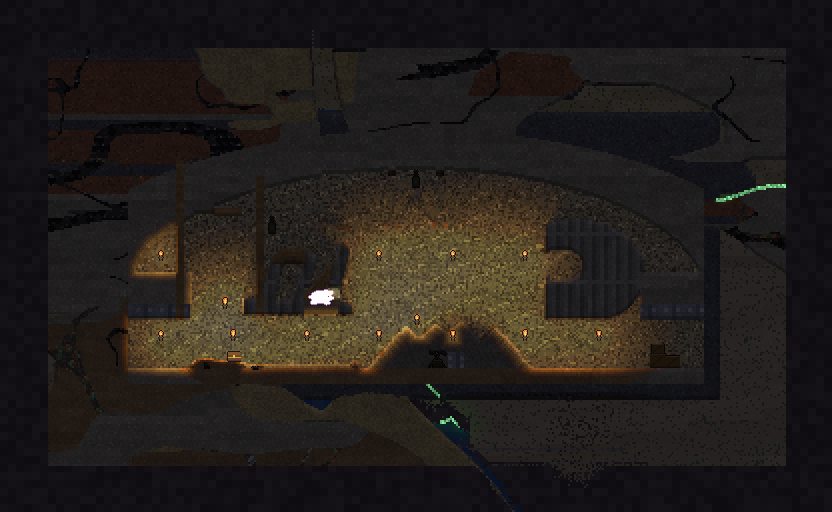
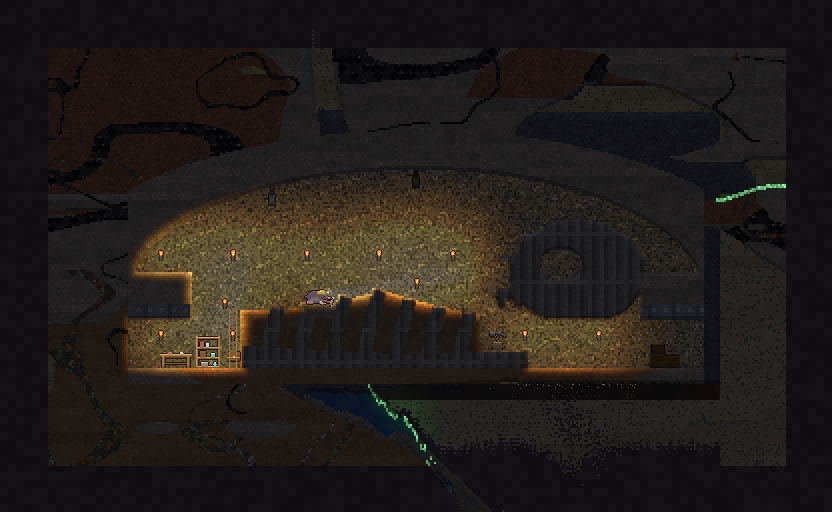
Final art polish: fossil and fissure wiki stills regenerated (current layouts) with captions; tube hopper drawn as its brass funnel and tube stub (was three boxes beside the ore hopper's bin)

diff --git a/engine/game/src/main.rs b/engine/game/src/main.rs
@@ -135,7 +135,7 @@ const BG_BASE: [f32; 3] = [44., 34., 30.];
 #[inline] fn srgb(l: f32) -> f32 { l.max(0.).powf(1. / 2.2) * 255. }
 #[derive(Component)] pub struct WorldSprite;
 #[derive(Component)] struct Pooled(u8, usize);
-#[derive(Resource)] pub struct Sprites { pub wagon: Vec<Handle<Image>>, pub wload: [Handle<Image>; 2], pub coupling: Handle<Image>, pub borer: Vec<Handle<Image>>, pub leaf: Handle<Image>, pub lever: [Handle<Image>; 2], pub scale: [Handle<Image>; 4], pub rope: [Handle<Image>; 2], pub weight: Handle<Image>, pub boiler: [Handle<Image>; 2], pub stamp: [Handle<Image>; 2], pub tub: [Handle<Image>; 2], pub smelter: [Handle<Image>; 4], pub props: Vec<Handle<Image>>, pub cart: Handle<Image>, pub bin: Vec<Handle<Image>>, pub clue: Vec<Handle<Image>>, pub furn: Vec<Option<(Handle<Image>, Option<Handle<Image>>)>>, pub tools: [Handle<Image>; 3], pub dev: Vec<Handle<Image>>, pub ring: Handle<Image>, pub mole: Vec<Handle<Image>>, pub mole_out: Vec<Handle<Image>>, pub held: Vec<Handle<Image>>, pub icons: Vec<Handle<Image>>, pub chest: [Handle<Image>; 2], pub station: Vec<[Handle<Image>; 2]>, pub torch: Handle<Image>, pub torch_f: Vec<Handle<Image>>, pub glow: Handle<Image>, pub shroom: [Handle<Image>; 3], pub px: Handle<Image> }
+#[derive(Resource)] pub struct Sprites { pub thopper: Handle<Image>, pub wagon: Vec<Handle<Image>>, pub wload: [Handle<Image>; 2], pub coupling: Handle<Image>, pub borer: Vec<Handle<Image>>, pub leaf: Handle<Image>, pub lever: [Handle<Image>; 2], pub scale: [Handle<Image>; 4], pub rope: [Handle<Image>; 2], pub weight: Handle<Image>, pub boiler: [Handle<Image>; 2], pub stamp: [Handle<Image>; 2], pub tub: [Handle<Image>; 2], pub smelter: [Handle<Image>; 4], pub props: Vec<Handle<Image>>, pub cart: Handle<Image>, pub bin: Vec<Handle<Image>>, pub clue: Vec<Handle<Image>>, pub furn: Vec<Option<(Handle<Image>, Option<Handle<Image>>)>>, pub tools: [Handle<Image>; 3], pub dev: Vec<Handle<Image>>, pub ring: Handle<Image>, pub mole: Vec<Handle<Image>>, pub mole_out: Vec<Handle<Image>>, pub held: Vec<Handle<Image>>, pub icons: Vec<Handle<Image>>, pub chest: [Handle<Image>; 2], pub station: Vec<[Handle<Image>; 2]>, pub torch: Handle<Image>, pub torch_f: Vec<Handle<Image>>, pub glow: Handle<Image>, pub shroom: [Handle<Image>; 3], pub px: Handle<Image> }
 
 /// `?seed=N` (web) / `--seed=N` (native) was given: the game opens straight into that holt.
 fn seed_pinned() -> bool {
@@ -308,7 +308,7 @@ fn dev_dump(n: Local<u32>, g: Res<Game>, sp: Res<Sprites>, images: Res<Assets<Im
         list.push(("cart".into(), sp.cart.clone())); list.push(("rope".into(), sp.rope[0].clone())); list.push(("hook".into(), sp.rope[1].clone())); list.push(("weight".into(), sp.weight.clone())); list.push(("boiler0".into(), sp.boiler[0].clone())); list.push(("boiler1".into(), sp.boiler[1].clone()));
         for (k, h) in sp.stamp.iter().chain(sp.tub.iter()).chain(sp.smelter.iter()).enumerate() { list.push((format!("works{k}"), h.clone())); }
         list.push(("gate-leaf".into(), sp.leaf.clone())); for (k, h) in sp.borer.iter().enumerate() { list.push((format!("borer{k}"), h.clone())); }
-        for (k, h) in sp.wagon.iter().chain(sp.wload.iter()).enumerate() { list.push((format!("wagon{k}"), h.clone())); } list.push(("coupling".into(), sp.coupling.clone())); for (k, h) in sp.lever.iter().chain(sp.scale.iter()).enumerate() { list.push((format!("logic{k}"), h.clone())); }
+        for (k, h) in sp.wagon.iter().chain(sp.wload.iter()).enumerate() { list.push((format!("wagon{k}"), h.clone())); } list.push(("coupling".into(), sp.coupling.clone())); list.push(("tube-hopper".into(), sp.thopper.clone())); for (k, h) in sp.lever.iter().chain(sp.scale.iter()).enumerate() { list.push((format!("logic{k}"), h.clone())); }
         for (k, h) in sp.bin.iter().enumerate() { list.push((format!("orebin{k}"), h.clone())); }
         for (k, h) in sp.props.iter().enumerate() { list.push((format!("prop-{:?}", props::PROPS[k]), h.clone())); }
         for (k, h) in sp.icons.iter().enumerate() { list.push((format!("icon-{:?}", ITEMS[k]), h.clone())); }
@@ -540,7 +540,7 @@ fn stage_scene(w: &mut World) {
                 molehill_sim::light::reveal_box(&mut w.g, mx, y0 - 10 * S, x1 + 10 * S, my + 10 * S);
                 for k in 0..4 { w.torches.push((x0 + (6 + k * 16) * S, y0 + 4 * S)); }
             }
-            "production" => { // a works east of the burrow: a chute sloping down onto a shaker screen, riffle bars, an ore hopper
+            "production" => { // a works east of the burrow: a chute sloping down onto a shaker screen, riffle bars, an ore hopper and a tube hopper beside it
                 // heaped with copper ore over a rail, and a bumper at the end of the track
                 use molehill_sim::mat::CPM;
                 let (x0, x1, y0) = (mx + 4 * S, mx + 64 * S, my - 22 * S);
@@ -552,6 +552,9 @@ fn stage_scene(w: &mut World) {
                 for x in sx + 2 * CPM - 2..sx + 2 * CPM { for y in sy + 2..my - 1 { set(w, x, y, Mat::WoodBeam); } }
                 for x in x1 - CPM / 2..x1 { for y in my - CPM..my - 1 { set(w, x, y, Mat::Bumper); } }
                 for x in x0 + 26 * S..x0 + 26 * S + 2 * CPM { for y in my - 3..my - 1 { set(w, x, y, Mat::Riffle); } } // a run of riffle bars on the track bed
+                // a tube hopper on a stub of pressure tube by the ore hopper, so the two read apart in a still
+                { let (hx, hy) = (x0 + 50 * S, my - 1 - CPM - 2); for x in hx + CPM / 2 - 1..hx + CPM / 2 + 1 { for y in hy + CPM..my - 1 { set(w, x, y, Mat::Tube); } }
+                  let tube = w.g.idx(hx + CPM / 2, hy + CPM); w.tr.hoppers.push(molehill_sim::tubes::Hopper { x: hx, y: hy, tube, dest: None }); }
                 let bx = x0 + 40 * S; let floor = my - 1; let by = floor - molehill_sim::production::BIN_LEGS;
                 w.tr.bins.push(molehill_sim::production::OreHopper { x: bx, y: by, floor, contents: vec![(Item::CopperOre, 40)], held: false, rod_held: false, open: false, feed: 0, grit: vec![] });
                 molehill_sim::light::reveal_box(&mut w.g, mx, y0 - 10 * S, x1 + 10 * S, my + 10 * S);
@@ -758,7 +761,7 @@ fn setup(mut commands: Commands, mut images: ResMut<Assets<Image>>, mut fonts: R
         mole_out: art::mole_sheet(false).into_iter().map(|i| images.add(i)).collect(),
         held: [art::Held::Pick, art::Held::Drill, art::Held::Bore, art::Held::Charge, art::Held::Block(Item::WoodPillar.color()), art::Held::Block(Item::Brick.color()), art::Held::Block(Item::IronBeam.color()), art::Held::RopeGun(true), art::Held::RopeGun(false)]
             .into_iter().map(|h| images.add(art::held_sprite(h))).collect(),
-        clue: (0..9).map(|k| images.add(decorart::clue(k))).collect(), props: props::PROPS.iter().map(|&p| images.add(props::image(p))).collect(), cart: images.add(art::cart()), borer: (0..6).map(|k| images.add(art::borer(k))).collect(), wagon: (0..5).map(|k| images.add(art::wagon(k))).collect(), wload: [images.add(art::wagon_load(false)), images.add(art::wagon_load(true))], coupling: images.add(art::coupling()), leaf: images.add(art::gate_leaf()), lever: [images.add(art::gate_lever(false)), images.add(art::gate_lever(true))], scale: [0, 1, 2, 3].map(|k| images.add(art::scale_part(k))), rope: [images.add(art::rope_seg()), images.add(art::rope_hook())], weight: images.add(art::weight()), boiler: [images.add(art::boiler(false)), images.add(art::boiler(true))], stamp: [images.add(art::stamp_mill(0)), images.add(art::stamp_mill(1))], tub: [images.add(art::washer_tub(false)), images.add(art::washer_tub(true))], smelter: [0, 1, 2, 3].map(|k| images.add(art::smelter(k))), bin: (0..5).map(|k| images.add(art::ore_bin(k))).collect(),
+        clue: (0..9).map(|k| images.add(decorart::clue(k))).collect(), props: props::PROPS.iter().map(|&p| images.add(props::image(p))).collect(), cart: images.add(art::cart()), borer: (0..6).map(|k| images.add(art::borer(k))).collect(), thopper: images.add(art::tube_hopper()), wagon: (0..5).map(|k| images.add(art::wagon(k))).collect(), wload: [images.add(art::wagon_load(false)), images.add(art::wagon_load(true))], coupling: images.add(art::coupling()), leaf: images.add(art::gate_leaf()), lever: [images.add(art::gate_lever(false)), images.add(art::gate_lever(true))], scale: [0, 1, 2, 3].map(|k| images.add(art::scale_part(k))), rope: [images.add(art::rope_seg()), images.add(art::rope_hook())], weight: images.add(art::weight()), boiler: [images.add(art::boiler(false)), images.add(art::boiler(true))], stamp: [images.add(art::stamp_mill(0)), images.add(art::stamp_mill(1))], tub: [images.add(art::washer_tub(false)), images.add(art::washer_tub(true))], smelter: [0, 1, 2, 3].map(|k| images.add(art::smelter(k))), bin: (0..5).map(|k| images.add(art::ore_bin(k))).collect(),
         furn: ITEMS.iter().map(|&it| it.furn().map(|_| { let (b, c) = decorart::furniture(it); (images.add(decorart::finish(b)), c.map(|c| images.add(decorart::cloth(c)))) })).collect(),
         icons: ITEMS.iter().map(|&it| images.add(itemart::icon(it))).collect(),
         chest: [images.add(art::chest(false)), images.add(art::chest(true))],
@@ -1408,11 +1411,9 @@ fn sync_sprites(mut commands: Commands, g: Res<Game>, sp: Res<Sprites>, time: Re
     for (k, h) in w.tr.hoppers.iter().enumerate() {
         if w.g.flags[h.y.min(H - 1) * W + h.x.min(W - 1)] & F_SEEN == 0 { continue; }
         let (cx, cy) = h.centre(); let lt = lightf(cx as usize, cy as usize).to_srgba(); let hot = if w.logic.net_lit(w.logic.block_of(cx as usize, cy as usize)) { 1.25 } else { 1. };
-        let lit = |r: f32, gg: f32, b: f32| Color::srgb(r * lt.red * hot, gg * lt.green * hot, b * lt.blue * hot);
+        // a brass funnel narrowing into its tube stub (`art::tube_hopper`, as its icon), brighter while its copperline is live
         let n = molehill_sim::tubes::HOPPER as f32;
-        want.push((43, k, cell_to_world(cx, cy + n * 0.25), 3.9, sp.px.clone(), Vec2::new(n * CPX, n * 0.5 * CPX), false, lit(0.62, 0.45, 0.22)));
-        want.push((44, k, cell_to_world(cx, cy - n * 0.15), 3.9, sp.px.clone(), Vec2::new(n * 0.8 * CPX, n * 0.3 * CPX), false, lit(0.7, 0.52, 0.26)));
-        want.push((45, k, cell_to_world(cx, cy - n * 0.32), 3.95, sp.px.clone(), Vec2::new(n * 0.6 * CPX, 1.5), false, lit(0.15, 0.13, 0.12)));
+        want.push((43, k, cell_to_world(cx, cy), 3.9, sp.thopper.clone(), Vec2::splat(n * CPX), false, Color::srgb(lt.red * hot, lt.green * hot, lt.blue * hot)));
     }
     // counterweights: the rope paid off the drum as twisted fibre down to a cast-iron weight hanging on its eye
     for (k, wt) in w.tr.power.weights.iter().enumerate() {

diff --git a/engine/game/src/art.rs b/engine/game/src/art.rs
@@ -547,6 +547,18 @@ pub fn wagon_load(coal: bool) -> Image {
 /// The coupling bar between a wagon and what pulls it: an iron bar with a link at each end (stretched to the gap).
 pub fn coupling() -> Image { let mut p = Px::new(6, 3); p.rect(0, 1, 5, 1, [104, 104, 116]); p.rect(0, 0, 0, 2, [70, 70, 80]); p.rect(5, 0, 5, 2, [70, 70, 80]); p.finish(ICON_LINE).image() }
 
+/// A tube hopper in the world (16×16, its metre-square mouth; 1 px = 1 world unit): a brass funnel with a riveted rim
+/// and a dark mouth, tapering into a flanged stub of pressure tube, as its pack icon shows it, so it can't be taken for
+/// an ore hopper's timber bin.
+pub fn tube_hopper() -> Image {
+    let mut p = Px::new(16, 16); let (brass, brass_d) = ([196, 156, 72], [140, 104, 44]);
+    for y in 0..10 { let inset = y * 5 / 10; p.rect(inset, y, 15 - inset, y, if y < 2 { shade(brass, 1.2) } else if (y as i32) % 3 == 0 { brass_d } else { brass }); } // the funnel
+    p.oval(8., 1.5, 6.2, 1.2, [40, 30, 24]); // the mouth
+    for x in [1, 5, 10, 14] { p.set(x, 2, brass_d); } // rim rivets
+    p.rect(5, 10, 10, 15, [150, 190, 186]); p.rect(5, 10, 5, 15, [190, 222, 218]); p.rect(4, 12, 11, 12, brass_d); // the tube stub and its flange
+    p.finish(ICON_LINE).image()
+}
+
 /// The boiler over its shell cells (1 px = 1 world unit, `BOILER_W`×`BOILER_H` cells): a riveted iron drum with a
 /// steam dome and a stub chimney over a brick firebox, the fire door in its middle; lit, the fire shows through the door.
 pub fn boiler(lit: bool) -> Image {
@@ -821,6 +833,15 @@ mod tests {
         for a in 0..5u8 { for b in a + 1..5 { let d = mask(a).iter().zip(&mask(b)).filter(|(x, y)| x != y).count(); assert!(d >= 12, "wagons {a} and {b} share a silhouette ({d})"); } }
         let water = wagon(3).data.unwrap(); assert!(water.chunks(4).filter(|c| c[3] > 0 && c[0] < 40 && c[2] > 35).count() >= 6, "the water wagon has its gauge glass");
         assert_ne!(wagon_load(true).data, wagon_load(false).data);
+    }
+
+    /// The tube hopper is drawn (a funnel narrowing to a tube stub, its mouth dark), not three boxes, and doesn't share the
+    /// ore hopper's look (brass and tube colours, not timber).
+    #[test] fn tube_hopper_is_a_drawn_funnel() {
+        use super::tube_hopper; let d = tube_hopper().data.unwrap(); let w = 16;
+        let row = |y: usize| (0..w).filter(|&x| d[(y * w + x) * 4 + 3] > 0).count();
+        assert!(row(1) > row(8) && row(8) > row(14), "a funnel narrowing to a tube stub: {} / {} / {}", row(1), row(8), row(14));
+        let tube = d.chunks(4).filter(|c| c[3] > 0 && c[1] > 180 && c[2] > 170).count(); assert!(tube >= 10, "the pressure-tube stub shows");
     }
 
     #[test] fn ore_pockets_stand_out_without_glowing() {

diff --git a/TESTING.md b/TESTING.md
@@ -411,4 +411,4 @@ Performance-related tests in `sim.rs`: `local_stress_resolve_matches_full_solve`
 
 `cargo build --release -p molehill`. On a headless Linux box, run it under `Xvfb :99` with `VK_ICD_FILENAMES=/usr/share/vulkan/icd.d/lvp_icd.json`, wait about 8 s, and grab one frame with `ffmpeg -f x11grab`. The game opens on the main menu; press Enter to start a New Holt. One screenshot is enough; don't record videos unless asked.
 
-Native builds also take a frame by themselves: `molehill --fresh --seed=4242 --shot=out.bmp [--shot-at=150] [--shot-ui=pause|inv|help|dev|loading] [--shot-walk] [--shot-blast=K] [--shot-zoom=0.6]` starts a holt, writes one BMP and quits (`--shot-ui=loading` instead stills the loading line while that seed's holt is built). `--scene=mine|holt|pump|fissure|fossil|crystal|halt|walls` stamps that found place (or a mixed lining room) in host rock next to the burrow so a still can inspect it without hunting a seed; `--scene=production` stamps a small works (chute, shaker screen, riffle bars, ore hopper over track, bumper); `--scene=rope` a hall with a hook rope bitten into the ceiling and a hook in flight paying out its rope; `--scene=power` a counterweight driving a shaft, two gears and a belt, a water wheel standing by; `--scene=steam` a lit boiler piping steam to an engine that drives a belt; `--scene=refine` a counterweight driving a stamp mill, a washer and bellows on a lit smelter, an empty and a setting mould; `--scene=logic` every linkage part (a tread plate under the mole, rodded to a gate holding a pool, which the mole's weight lifts, a turned-round gate standing lifted, a tipping scale with three stones, a float in a tank rodded to a clutch in a drive train). `--scene=borer` puts a lit steam borer, water and steam up, in a tunnel facing a dirt face with the mole riding it (add `--shot-walk` and the running game drives it into the face), and a second one parked behind it, lit, unridden and facing west. `--scene=wagons` has a ridden borer near a dirt face hauling all five wagon kinds coupled behind it, the store, coal and water wagons part full (`--shot-walk` drives the train), and a second borer facing west near the burrow with a coal wagon coupled behind it. The `cells-*` swatches' second frame shows a linkage part pulled. `--dump-art` also writes `cells-<Mat>-0.bmp`/`-1.bmp`, the production and machinery cells' own art unlit, at rest and 1.5 cells of travel in. `view.bmp` composites rotated sprites too (ropes, the held item). Add `--dump-art=DIR` to also write every sprite (8×) and the composited world around the mole: `view.bmp` has every visible world sprite (furniture, found-place furnishings, chests, torches, carts, the mole) drawn over the cells, and `view_cells.bmp` is the cells alone. These are CPU-side and cover the whole window, so they work even where the window frame doesn't. On macOS the window must be visible on screen: launched from a background shell the surface reads back empty.
+Native builds also take a frame by themselves: `molehill --fresh --seed=4242 --shot=out.bmp [--shot-at=150] [--shot-ui=pause|inv|help|dev|loading] [--shot-walk] [--shot-blast=K] [--shot-zoom=0.6]` starts a holt, writes one BMP and quits (`--shot-ui=loading` instead stills the loading line while that seed's holt is built). `--scene=mine|holt|pump|fissure|fossil|crystal|halt|walls` stamps that found place (or a mixed lining room) in host rock next to the burrow so a still can inspect it without hunting a seed; `--scene=production` stamps a small works (chute, shaker screen, riffle bars, ore hopper over track with a tube hopper beside it, bumper); `--scene=rope` a hall with a hook rope bitten into the ceiling and a hook in flight paying out its rope; `--scene=power` a counterweight driving a shaft, two gears and a belt, a water wheel standing by; `--scene=steam` a lit boiler piping steam to an engine that drives a belt; `--scene=refine` a counterweight driving a stamp mill, a washer and bellows on a lit smelter, an empty and a setting mould; `--scene=logic` every linkage part (a tread plate under the mole, rodded to a gate holding a pool, which the mole's weight lifts, a turned-round gate standing lifted, a tipping scale with three stones, a float in a tank rodded to a clutch in a drive train). `--scene=borer` puts a lit steam borer, water and steam up, in a tunnel facing a dirt face with the mole riding it (add `--shot-walk` and the running game drives it into the face), and a second one parked behind it, lit, unridden and facing west. `--scene=wagons` has a ridden borer near a dirt face hauling all five wagon kinds coupled behind it, the store, coal and water wagons part full (`--shot-walk` drives the train), and a second borer facing west near the burrow with a coal wagon coupled behind it. The `cells-*` swatches' second frame shows a linkage part pulled. `--dump-art` also writes `cells-<Mat>-0.bmp`/`-1.bmp`, the production and machinery cells' own art unlit, at rest and 1.5 cells of travel in. `view.bmp` composites rotated sprites too (ropes, the held item). Add `--dump-art=DIR` to also write every sprite (8×) and the composited world around the mole: `view.bmp` has every visible world sprite (furniture, found-place furnishings, chests, torches, carts, the mole) drawn over the cells, and `view_cells.bmp` is the cells alone. These are CPU-side and cover the whole window, so they work even where the window frame doesn't. On macOS the window must be visible on screen: launched from a background shell the surface reads back empty.

diff --git a/docs/wiki/Item-and-Place-Art.md b/docs/wiki/Item-and-Place-Art.md
@@ -78,7 +78,7 @@ The pack, the hotbar, the item in the mole's paws and anything lying loose all u
 | Hook rope | a coil of twisted fungus-fibre rope, its loose end running out to a barbed stone hook lashed on | the rope: a twisted-fibre length per half-metre segment, turned along it; the stone hook at its head points into the rock it bit, or along its flight while thrown (`art::rope_seg`, `art::rope_hook`) |
 | Lift | a cage hung from a sheave | lift head frame, rope and cage |
 | Pressure tube | a pressure-tube length with flanged ends | placed cells of its material |
-| Tube hopper | a brass funnel mouth on a stub of tube | brass hopper mouth |
+| Tube hopper | a brass funnel mouth on a stub of tube | drawn (`art::tube_hopper`): a brass funnel with a riveted rim and a dark mouth, narrowing into a flanged stub of pressure tube, brighter while its copperline is live; it reads apart from the ore hopper's timber bin on legs |
 | Chute | a timber trough running downhill, a lump sliding down it | placed cells: a pale worn lip on top, boards with a dark seam every half metre |
 | Shaker screen | an iron grating in a timber frame, the mesh open between the bars | placed cells: a timber top rail, iron bars every half metre, the dark mesh between |
 | Bumper | a squat timber buffer with a red pad, standing on a rail end | placed cells: red-painted timber, a brighter worn head, an iron band and bolt every metre |
@@ -167,6 +167,7 @@ Game-crate tests (`cargo test --release -p molehill`):
 * `linkage_parts_show_their_state`: the six linkage cell kinds each differ from the others in over 64 of 256 cells; a rod, tread plate, clutch and float each show being pulled (at least 8 cells change); a pressed plate's top is a dark gap; the gate lever differs turned round; the scale has its four parts.
 * `borer_is_drawn`: the borer's firebox door glows only while lit, its head's three frames differ (it turns), and its body, head and wheel are the right sizes.
 * `wagons_have_their_own_silhouettes`: any two wagon kinds differ in at least 12 pixels of coverage, the water wagon has its gauge glass, and the store and coal loads differ. All wagons share two spoked wheels that turn with the ground covered, and a coupling bar (an iron bar with a link at each end) to what pulls them.
+* `tube_hopper_is_a_drawn_funnel`: the tube hopper narrows from its mouth to its tube stub, and the pressure-tube colour shows.
 * `ore_hopper_is_a_drawn_bin`: the bin's back boards fill it, the front leaves the upper part open (so the heap shows), the taper is boarded down to a spout, the open gate differs from the shut one, and the heap sprite is pale so its tint gives the ore colour.
 * `found_places_are_furnished`: each family is stamped into rock and must get its listed furnishings, all inside the site and none in rock. Every prop kind is placed somewhere.
 

diff --git a/REFINE-ui-graphics.md b/REFINE-ui-graphics.md
@@ -380,6 +380,19 @@ Polish only: no new systems, lore names kept. Each entry lists what changed and 
 * Stills only, no live window. Stills plus `wagons_have_their_own_silhouettes` cover both facings, the loads and
   gauge, and the train moving.
 
+## Final polish round (branch `refine/final-art-polish`)
+* Wiki stills for the fossil cave and the fissure were outdated (from before #22's site traps). Regenerated with
+  `--scene=fossil` / `--scene=fissure --dump-art` at frame 150, same crops. Now the fossil beast lies on the dig floor
+  with its ribs bedded in rock, and the fissure has its standing decks and ladders. Captions updated (the fossil
+  one still mentioned a scaffold, which moved to the mine in the furnishing pass).
+* Tube hopper vs ore hopper: in the world the tube hopper was still three tinted rectangles (kinds 43–45) next to the
+  drawn timber ore-hopper bin. It's now drawn (`art::tube_hopper`) as its pack icon shows it: a brass funnel with a
+  dark mouth narrowing into a flanged tube stub. `--scene=production` puts one beside the ore hopper, and in the still
+  at frame 60 the two read apart at a glance. Test `tube_hopper_is_a_drawn_funnel`.
+* Checked and left: the icon sheet holds all 106 items and 21 devices (no gaps); the borer and wagon facing and
+  coupling were fixed in #66/#69.
+* Not tested: a live window or a playtest. Everything here was checked through `--dump-art` stills and tests.
+
 ## Open issues
 * `--shot` writes an empty frame on macOS when the game is launched from a background shell (the surface is
   never presented). It needs a visible window, or Linux with Xvfb.

diff --git a/docs/wiki/World-and-Generation.md b/docs/wiki/World-and-Generation.md
@@ -148,10 +148,10 @@ One still of each family, stamped with `--scene=<family>` on seed 4242 and lit b
 ![Flooded pumpworks: wet-stone chambers, hanging pipes, a sluice and a large iron pump wheel](images/site-pump.png)
 *Flooded pumpworks* (`--scene=pump`)
 
-![Fissure: a tall basalt chasm with broken bridges and hanging ropes](images/site-fissure.png)
+![Fissure: a tall basalt chasm with timber decks and ladders between its levels, broken bridge stubs and hanging ropes](images/site-fissure.png)
 *Fissure* (`--scene=fissure`)
 
-![Fossil cave: an excavation around a mineralised profile skeleton, with scaffold](images/site-fossil.png)
+![Fossil cave: an excavation where a mineralised skeleton lies on the dig floor, its ribs bedded in the rock](images/site-fossil.png)
 *Fossil cave* (`--scene=fossil`)
 
 ![Salt / crystal hall: towering crystal spires and glow-pools](images/site-crystal.png)
